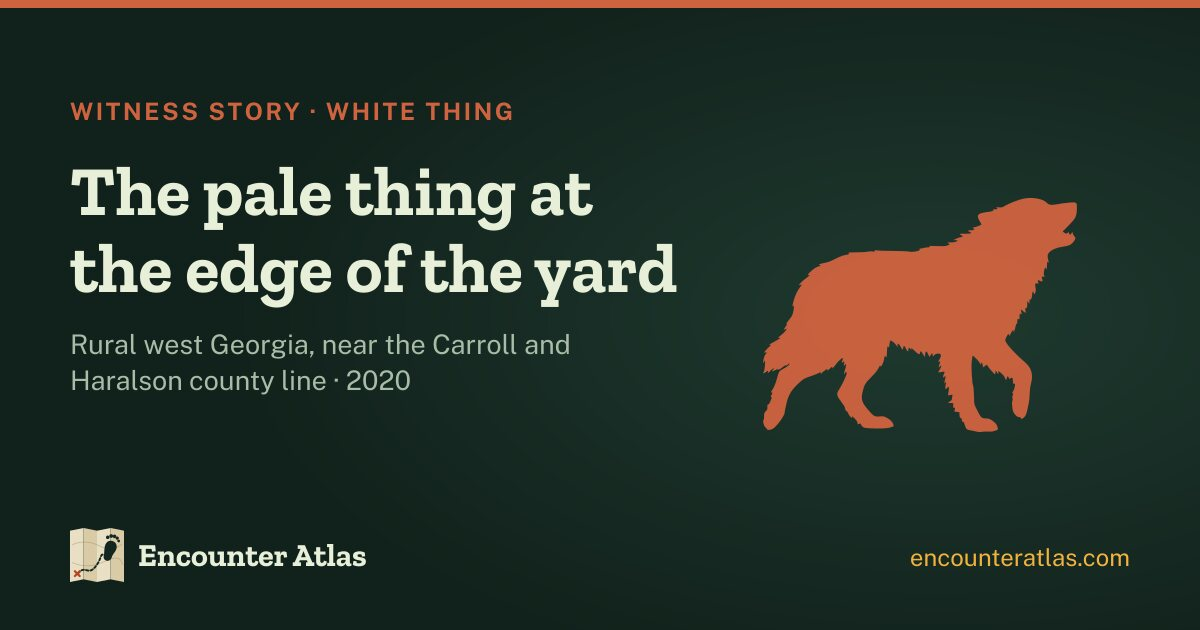
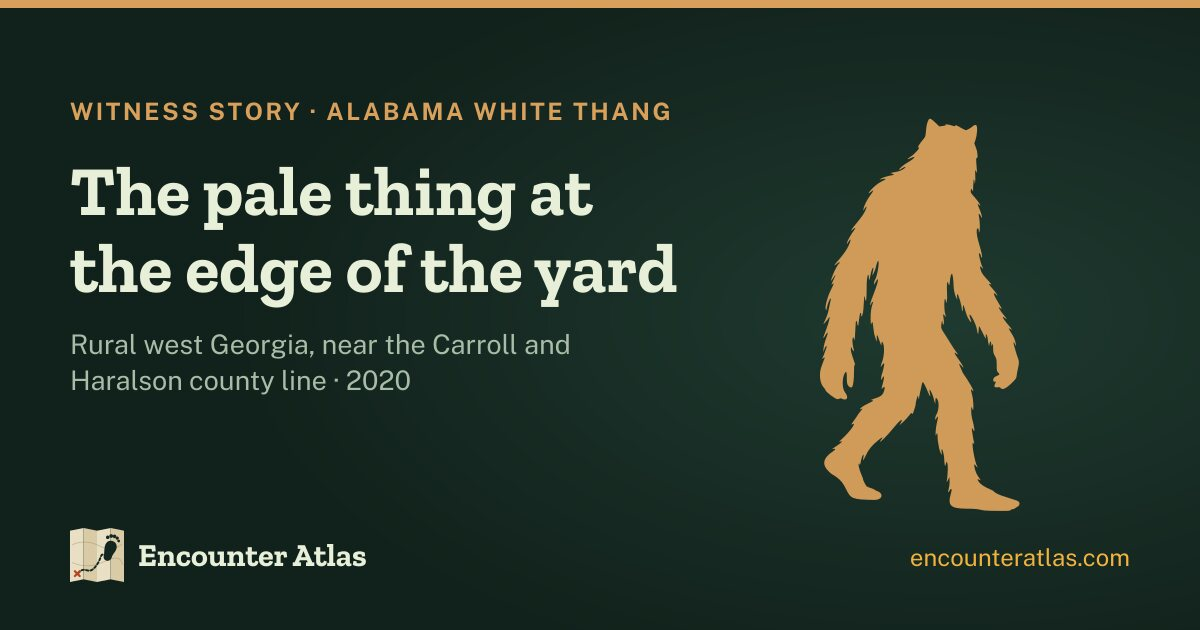
New creature: Alabama White Thang, split from West Virginia's White Thing
The Georgia witness story compared its creature to the Alabama legend, so it moves to the new
page. More room between the witness-stories link and the buttons on /reports/.

Changed region(s): [[0.6167, 0.181, 0.8942, 0.8143], [0.0, 0.0, 1.0, 0.0302], [0.0617, 0.1508, 0.555, 0.2111]]

diff --git a/worker/src/creatures.js b/worker/src/creatures.js
@@ -1,2 +1,2 @@
 // Generated by gen-creatures.mjs from data/creatures.json. Do not edit.
-export const CREATURES = {"bigfoot":"Bigfoot","kussie":"Kussie","moon-lake-monster":"Moon Lake Monster","yeti":"Yeti","yowie":"Yowie","skunk-ape":"Skunk Ape","fouke-monster":"Fouke Monster","honey-island-swamp-monster":"Honey Island Swamp Monster","momo":"Momo","almas":"Almas","yeren":"Yeren","orang-pendek":"Orang Pendek","dogman":"Dogman","rougarou":"Rougarou","chupacabra":"Chupacabra","mothman":"Mothman","thunderbird":"Thunderbird","jersey-devil":"Jersey Devil","owlman":"Owlman","kongamato":"Kongamato","loch-ness-monster":"Loch Ness Monster","ogopogo":"Ogopogo","champ":"Champ","bessie":"Bessie","cadborosaurus":"Cadborosaurus","bear-lake-monster":"Bear Lake Monster","flathead-lake-monster":"Flathead Lake Monster","mokele-mbembe":"Mokele-mbembe","bunyip":"Bunyip","flatwoods-monster":"Flatwoods Monster","dover-demon":"Dover Demon","hopkinsville-goblins":"Kelly-Hopkinsville Goblins","loveland-frog":"Loveland Frogman","lizard-man":"Lizard Man of Scape Ore Swamp","mongolian-death-worm":"Mongolian Death Worm","tatzelwurm":"Tatzelwurm","ufo-saucer":"Flying saucer","ufo-triangle":"Black triangle","ufo-orbs":"Orbs and lights","ufo-tic-tac":"Tic Tac UAP","grassman":"Ohio Grassman","mogollon-monster":"Mogollon Monster","old-yellow-top":"Old Yellow Top","minnesota-iceman":"Minnesota Iceman","big-grey-man":"Big Grey Man of Ben Macdui","hibagon":"Hibagon","bukit-timah-monkey-man":"Bukit Timah Monkey Man","beast-of-bray-road":"Beast of Bray Road","black-shuck":"Black Shuck","beast-of-gevaudan":"Beast of Gévaudan","thylacine":"Thylacine sightings","shunka-warakin":"Shunka Warak'in","beast-of-bodmin":"Beast of Bodmin Moor","beast-of-exmoor":"Beast of Exmoor","beast-of-bladenboro":"Beast of Bladenboro","mngwa":"Mngwa","nandi-bear":"Nandi bear","ozark-howler":"Ozark Howler","batsquatch":"Batsquatch","snallygaster":"Snallygaster","van-meter-visitor":"Van Meter Visitor","ahool":"Ahool","ropen":"Ropen","big-bird":"Big Bird of the Rio Grande Valley","lechuza":"La Lechuza","altamaha-ha":"Altamaha-ha","tahoe-tessie":"Tahoe Tessie","chessie":"Chessie","white-river-monster":"White River Monster","memphre":"Memphré","igopogo":"Igopogo","manipogo":"Manipogo","lagarfljot-worm":"Lagarfljót Worm","storsjoodjuret":"Storsjöodjuret","nahuelito":"Nahuelito","morag":"Morag","lake-tianchi-monster":"Lake Tianchi Monster","kappa":"Kappa","ningen":"Ningen","emela-ntouka":"Emela-ntouka","sea-serpent":"Sea serpent","beast-of-busco":"Beast of Busco","dobhar-chu":"Dobhar-chú","goatman":"Goatman","pope-lick-monster":"Pope Lick Monster","lake-worth-monster":"Lake Worth Monster","pukwudgie":"Pukwudgie","melon-heads":"Melon heads","grafton-monster":"Grafton Monster","enfield-monster":"Enfield Monster","nain-rouge":"Nain Rouge","fresno-nightcrawlers":"Fresno Nightcrawlers","black-eyed-children":"Black-eyed children","shadow-people":"Shadow people","spring-heeled-jack":"Spring-heeled Jack","popobawa":"Popobawa","wendigo":"Wendigo","thetis-lake-monster":"Thetis Lake Monster","indrid-cold":"Indrid Cold","grey-aliens":"Grey aliens","nordic-aliens":"Nordic aliens","men-in-black":"Men in Black","reptilians":"Reptilians","wampus-cat":"Wampus cat","hodag":"Hodag","tsuchinoko":"Tsuchinoko","hoop-snake":"Hoop snake","mapinguari":"Mapinguari","montauk-monster":"Montauk Monster","sheepsquatch":"Sheepsquatch","ufo-cigar":"Cigar-shaped UFO","ufo-boomerang":"Boomerang and V-shaped UFOs","ghost-rockets":"Ghost rockets","mystery-airships":"Mystery airships","green-fireballs":"Green fireballs","ufo-crash":"UFO crashes","alien-abduction":"Alien abduction","crop-circles":"Crop circles","cattle-mutilation":"Cattle mutilations","skinwalker-ranch":"Skinwalker Ranch","bunnyman":"Bunny Man","the-rake":"The Rake","hat-man":"The Hat Man","skinwalker":"Skinwalker","snarly-yow":"Snarly Yow","white-thing":"White Thing","tailypo":"Tailypo","jackalope":"Jackalope","wolfman-of-defiance":"Wolfman of Defiance","ninki-nanka":"Ninki Nanka","grootslang":"Grootslang","drop-bear":"Drop bear","barghest":"Barghest","bukavac":"Bukavac","inkanyamba":"Inkanyamba","lukwata":"Lukwata","dingonek":"Dingonek","mbielu-mbielu-mbielu":"Mbielu-mbielu-mbielu","mamlambo":"Mamlambo","tokoloshe":"Tokoloshe","barmanou":"Barmanou","mande-barung":"Mande Barung","nittaewo":"Nittaewo","chuchuna":"Chuchuna","amomongo":"Amomongo","orang-mawas":"Orang Mawas","issie":"Issie","labynkyr-devil":"Labynkyr Devil","lake-van-monster":"Lake Van Monster","monkey-man-of-delhi":"Monkey-man of Delhi","queensland-tiger":"Queensland tiger","tantanoola-tiger":"Tantanoola Tiger","moehau-monster":"Moehau monster","waitoreke":"Waitoreke","mono-grande":"Mono Grande","minhocao":"Minhocão","cadejo":"Cadejo","huay-chivo":"Huay Chivo","moca-vampire":"Moca Vampire","lusca":"Lusca","morgawr":"Morgawr","selma":"Selma","gwyllgi":"Gwyllgi","moddey-dhoo":"Moddey Dhoo","wulver":"Wulver","wolpertinger":"Wolpertinger","gef":"Gef the talking mongoose","stellers-sea-ape":"Steller's sea ape","turtle-lake-monster":"Turtle Lake Monster","mussie":"Mussie","old-ned":"Old Ned","sharlie":"Sharlie","wild-man-of-the-navidad":"Wild Man of the Navidad","kushtaka":"Kushtaka","vegetable-man":"Vegetable Man","piasa":"Piasa","fairies":"Fairies","tylwyth-teg":"Tylwyth Teg","pixies":"Pixies","brownies":"Brownies","hob":"Hob","leprechaun":"Leprechaun","puca":"Púca","gnomes":"Gnomes","dwarves":"Dwarves","huldufolk":"Huldufólk","tomte":"Tomte","domovoi":"Domovoi","kobold":"Kobold","knockers":"Knockers","spriggans":"Spriggans","hobyahs":"Hobyahs","menehune":"Menehune","duwende":"Duwende","orang-bunian":"Orang Bunian","korpokkur":"Korpokkur","alux":"Alux","duendes":"Duendes","nimerigar":"Nimerigar","yunwi-tsunsdi":"Yunwi Tsunsdi","mannegishi":"Memekwesiw","makiawisug":"Makiawisug","ebu-gogo":"Ebu Gogo","agogwe":"Agogwe","goblins":"Goblins","hobgoblin":"Hobgoblin","redcap":"Redcap","hinzelmann":"Hinzelmann","mermaid":"Mermaid","merrow":"Merrow","selkie":"Selkie","ningyo":"Ningyo","iara":"Iara","rusalka":"Rusalka","mami-wata":"Mami Wata","kraken":"Kraken","globster":"Globster","trunko":"Trunko","zuiyo-maru-carcass":"Zuiyō Maru carcass","hook-island-sea-monster":"Hook Island Sea Monster","uss-stein-monster":"USS Stein monster","bloop":"Bloop","sea-monk":"Sea monk","bishop-fish":"Bishop-fish","stronsay-beast":"Stronsay Beast","gambo":"Gambo","amabie":"Amabie","blue-men-of-the-minch":"Blue men of the Minch","finfolk":"Finfolk","jenny-haniver":"Jenny Haniver","ponik":"Ponik","cressie":"Cressie","dungarvon-whooper":"Dungarvon Whooper","brosno-dragon":"Brosno dragon","menk":"Menk","alyoshenka":"Alyoshenka, the Kyshtym dwarf","mugwump":"Mugwump","pend-oreille-paddler":"Pend Oreille Paddler","walgren-lake-monster":"Walgren Lake Monster","fur-bearing-trout":"Fur-bearing trout","hudson-river-monster":"Hudson River Monster","north-shore-monster":"North Shore Monster","utah-lake-monster":"Utah Lake Monster","lutin":"Lutin"};
+export const CREATURES = {"bigfoot":"Bigfoot","kussie":"Kussie","moon-lake-monster":"Moon Lake Monster","yeti":"Yeti","yowie":"Yowie","skunk-ape":"Skunk Ape","fouke-monster":"Fouke Monster","honey-island-swamp-monster":"Honey Island Swamp Monster","momo":"Momo","almas":"Almas","yeren":"Yeren","orang-pendek":"Orang Pendek","dogman":"Dogman","rougarou":"Rougarou","chupacabra":"Chupacabra","mothman":"Mothman","thunderbird":"Thunderbird","jersey-devil":"Jersey Devil","owlman":"Owlman","kongamato":"Kongamato","loch-ness-monster":"Loch Ness Monster","ogopogo":"Ogopogo","champ":"Champ","bessie":"Bessie","cadborosaurus":"Cadborosaurus","bear-lake-monster":"Bear Lake Monster","flathead-lake-monster":"Flathead Lake Monster","mokele-mbembe":"Mokele-mbembe","bunyip":"Bunyip","flatwoods-monster":"Flatwoods Monster","dover-demon":"Dover Demon","hopkinsville-goblins":"Kelly-Hopkinsville Goblins","loveland-frog":"Loveland Frogman","lizard-man":"Lizard Man of Scape Ore Swamp","mongolian-death-worm":"Mongolian Death Worm","tatzelwurm":"Tatzelwurm","ufo-saucer":"Flying saucer","ufo-triangle":"Black triangle","ufo-orbs":"Orbs and lights","ufo-tic-tac":"Tic Tac UAP","grassman":"Ohio Grassman","mogollon-monster":"Mogollon Monster","old-yellow-top":"Old Yellow Top","minnesota-iceman":"Minnesota Iceman","big-grey-man":"Big Grey Man of Ben Macdui","hibagon":"Hibagon","bukit-timah-monkey-man":"Bukit Timah Monkey Man","beast-of-bray-road":"Beast of Bray Road","black-shuck":"Black Shuck","beast-of-gevaudan":"Beast of Gévaudan","thylacine":"Thylacine sightings","shunka-warakin":"Shunka Warak'in","beast-of-bodmin":"Beast of Bodmin Moor","beast-of-exmoor":"Beast of Exmoor","beast-of-bladenboro":"Beast of Bladenboro","mngwa":"Mngwa","nandi-bear":"Nandi bear","ozark-howler":"Ozark Howler","batsquatch":"Batsquatch","snallygaster":"Snallygaster","van-meter-visitor":"Van Meter Visitor","ahool":"Ahool","ropen":"Ropen","big-bird":"Big Bird of the Rio Grande Valley","lechuza":"La Lechuza","altamaha-ha":"Altamaha-ha","tahoe-tessie":"Tahoe Tessie","chessie":"Chessie","white-river-monster":"White River Monster","memphre":"Memphré","igopogo":"Igopogo","manipogo":"Manipogo","lagarfljot-worm":"Lagarfljót Worm","storsjoodjuret":"Storsjöodjuret","nahuelito":"Nahuelito","morag":"Morag","lake-tianchi-monster":"Lake Tianchi Monster","kappa":"Kappa","ningen":"Ningen","emela-ntouka":"Emela-ntouka","sea-serpent":"Sea serpent","beast-of-busco":"Beast of Busco","dobhar-chu":"Dobhar-chú","goatman":"Goatman","pope-lick-monster":"Pope Lick Monster","lake-worth-monster":"Lake Worth Monster","pukwudgie":"Pukwudgie","melon-heads":"Melon heads","grafton-monster":"Grafton Monster","enfield-monster":"Enfield Monster","nain-rouge":"Nain Rouge","fresno-nightcrawlers":"Fresno Nightcrawlers","black-eyed-children":"Black-eyed children","shadow-people":"Shadow people","spring-heeled-jack":"Spring-heeled Jack","popobawa":"Popobawa","wendigo":"Wendigo","thetis-lake-monster":"Thetis Lake Monster","indrid-cold":"Indrid Cold","grey-aliens":"Grey aliens","nordic-aliens":"Nordic aliens","men-in-black":"Men in Black","reptilians":"Reptilians","wampus-cat":"Wampus cat","hodag":"Hodag","tsuchinoko":"Tsuchinoko","hoop-snake":"Hoop snake","mapinguari":"Mapinguari","montauk-monster":"Montauk Monster","sheepsquatch":"Sheepsquatch","ufo-cigar":"Cigar-shaped UFO","ufo-boomerang":"Boomerang and V-shaped UFOs","ghost-rockets":"Ghost rockets","mystery-airships":"Mystery airships","green-fireballs":"Green fireballs","ufo-crash":"UFO crashes","alien-abduction":"Alien abduction","crop-circles":"Crop circles","cattle-mutilation":"Cattle mutilations","skinwalker-ranch":"Skinwalker Ranch","bunnyman":"Bunny Man","the-rake":"The Rake","hat-man":"The Hat Man","skinwalker":"Skinwalker","snarly-yow":"Snarly Yow","alabama-white-thang":"Alabama White Thang","white-thing":"White Thing","tailypo":"Tailypo","jackalope":"Jackalope","wolfman-of-defiance":"Wolfman of Defiance","ninki-nanka":"Ninki Nanka","grootslang":"Grootslang","drop-bear":"Drop bear","barghest":"Barghest","bukavac":"Bukavac","inkanyamba":"Inkanyamba","lukwata":"Lukwata","dingonek":"Dingonek","mbielu-mbielu-mbielu":"Mbielu-mbielu-mbielu","mamlambo":"Mamlambo","tokoloshe":"Tokoloshe","barmanou":"Barmanou","mande-barung":"Mande Barung","nittaewo":"Nittaewo","chuchuna":"Chuchuna","amomongo":"Amomongo","orang-mawas":"Orang Mawas","issie":"Issie","labynkyr-devil":"Labynkyr Devil","lake-van-monster":"Lake Van Monster","monkey-man-of-delhi":"Monkey-man of Delhi","queensland-tiger":"Queensland tiger","tantanoola-tiger":"Tantanoola Tiger","moehau-monster":"Moehau monster","waitoreke":"Waitoreke","mono-grande":"Mono Grande","minhocao":"Minhocão","cadejo":"Cadejo","huay-chivo":"Huay Chivo","moca-vampire":"Moca Vampire","lusca":"Lusca","morgawr":"Morgawr","selma":"Selma","gwyllgi":"Gwyllgi","moddey-dhoo":"Moddey Dhoo","wulver":"Wulver","wolpertinger":"Wolpertinger","gef":"Gef the talking mongoose","stellers-sea-ape":"Steller's sea ape","turtle-lake-monster":"Turtle Lake Monster","mussie":"Mussie","old-ned":"Old Ned","sharlie":"Sharlie","wild-man-of-the-navidad":"Wild Man of the Navidad","kushtaka":"Kushtaka","vegetable-man":"Vegetable Man","piasa":"Piasa","fairies":"Fairies","tylwyth-teg":"Tylwyth Teg","pixies":"Pixies","brownies":"Brownies","hob":"Hob","leprechaun":"Leprechaun","puca":"Púca","gnomes":"Gnomes","dwarves":"Dwarves","huldufolk":"Huldufólk","tomte":"Tomte","domovoi":"Domovoi","kobold":"Kobold","knockers":"Knockers","spriggans":"Spriggans","hobyahs":"Hobyahs","menehune":"Menehune","duwende":"Duwende","orang-bunian":"Orang Bunian","korpokkur":"Korpokkur","alux":"Alux","duendes":"Duendes","nimerigar":"Nimerigar","yunwi-tsunsdi":"Yunwi Tsunsdi","mannegishi":"Memekwesiw","makiawisug":"Makiawisug","ebu-gogo":"Ebu Gogo","agogwe":"Agogwe","goblins":"Goblins","hobgoblin":"Hobgoblin","redcap":"Redcap","hinzelmann":"Hinzelmann","mermaid":"Mermaid","merrow":"Merrow","selkie":"Selkie","ningyo":"Ningyo","iara":"Iara","rusalka":"Rusalka","mami-wata":"Mami Wata","kraken":"Kraken","globster":"Globster","trunko":"Trunko","zuiyo-maru-carcass":"Zuiyō Maru carcass","hook-island-sea-monster":"Hook Island Sea Monster","uss-stein-monster":"USS Stein monster","bloop":"Bloop","sea-monk":"Sea monk","bishop-fish":"Bishop-fish","stronsay-beast":"Stronsay Beast","gambo":"Gambo","amabie":"Amabie","blue-men-of-the-minch":"Blue men of the Minch","finfolk":"Finfolk","jenny-haniver":"Jenny Haniver","ponik":"Ponik","cressie":"Cressie","dungarvon-whooper":"Dungarvon Whooper","brosno-dragon":"Brosno dragon","menk":"Menk","alyoshenka":"Alyoshenka, the Kyshtym dwarf","mugwump":"Mugwump","pend-oreille-paddler":"Pend Oreille Paddler","walgren-lake-monster":"Walgren Lake Monster","fur-bearing-trout":"Fur-bearing trout","hudson-river-monster":"Hudson River Monster","north-shore-monster":"North Shore Monster","utah-lake-monster":"Utah Lake Monster","lutin":"Lutin"};

diff --git a/site/static/site.css b/site/static/site.css
@@ -434,7 +434,7 @@ body.mapper .map-full { flex: 1; height: auto; min-height: 0; width: 100%; }
   .tchip { font-size: .85rem; } .cfind-in { max-width: none; }
 }
 /* Creature pages: full-story link under the summary, case summaries and sources, guide band, related groups */
-.lede-story { margin: .4rem 0 0; } .lede-story a { color: var(--lantern); font-weight: 700; }
+.lede-story { margin: .4rem 0 1.5rem; } .lede-story a { color: var(--lantern); font-weight: 700; }
 .case-sum { margin: .45rem 0 .3rem; font-size: .98rem; line-height: 1.55; color: var(--ink); }
 .case-links { display: flex; flex-wrap: wrap; gap: .3rem 1rem; margin: .2rem 0 0; font-size: .92rem; }
 .case-links .full-story { font-weight: 700; }

diff --git a/site/sw.js b/site/sw.js
@@ -1,6 +1,6 @@
 // Encounter Atlas service worker: pages network-first (offline falls back to the last copy),
 // static files and map data cache-first. Map tiles are left to the browser cache.
-const V = 'ea-v66';
+const V = 'ea-v67';
 const BASE = new URL(self.registration.scope).pathname.replace(/\/$/, '');
 self.addEventListener('install', (e) => {
   e.waitUntil(caches.open(V).then((c) => c.addAll([BASE + '/', BASE + '/map/', BASE + '/static/site.css', BASE + '/static/map.js'])).then(() => self.skipWaiting()));
